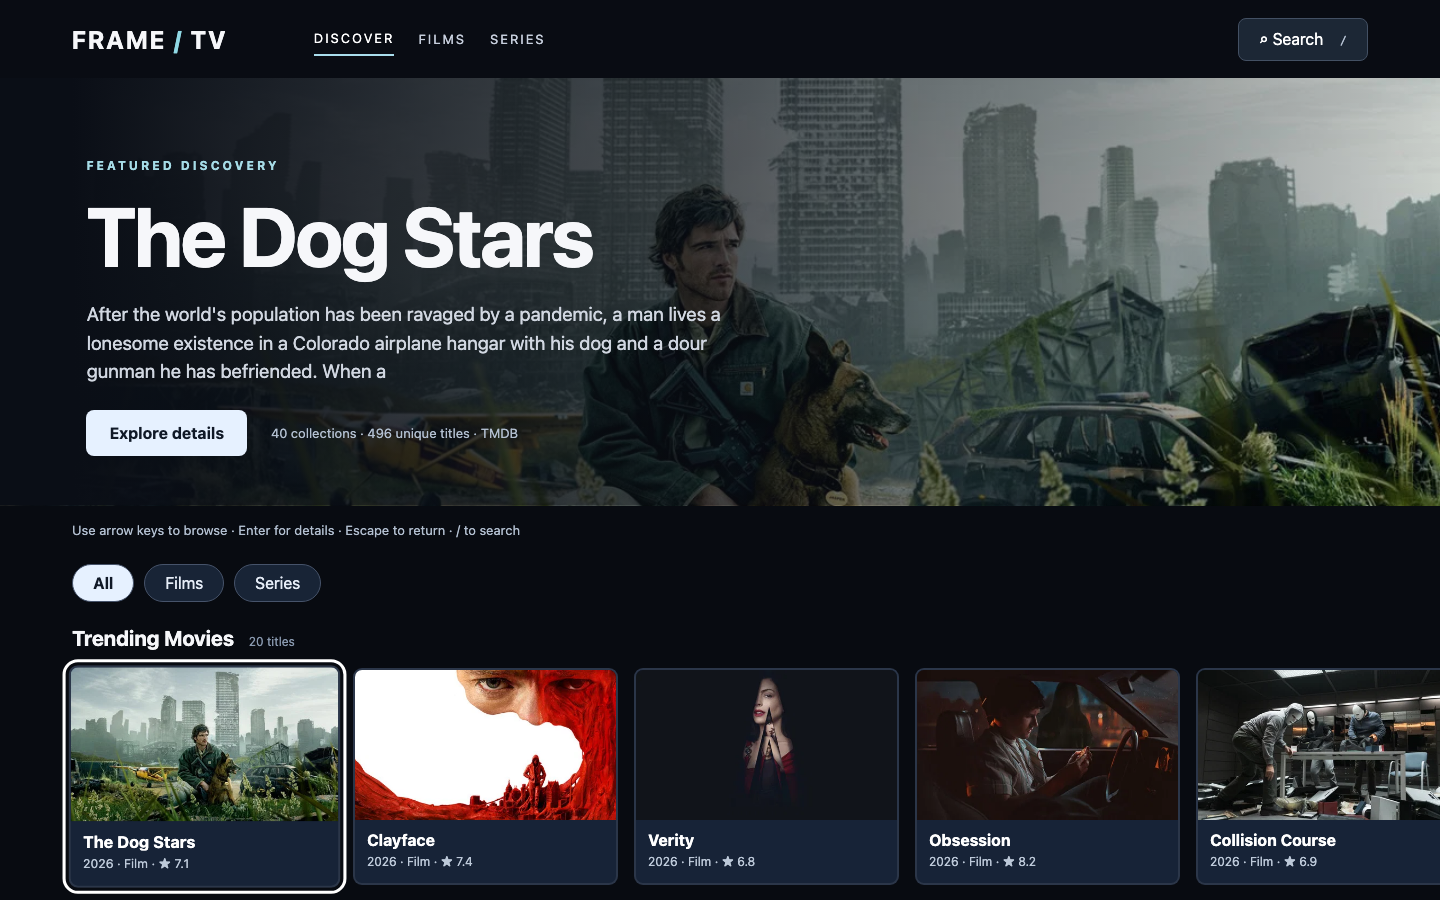
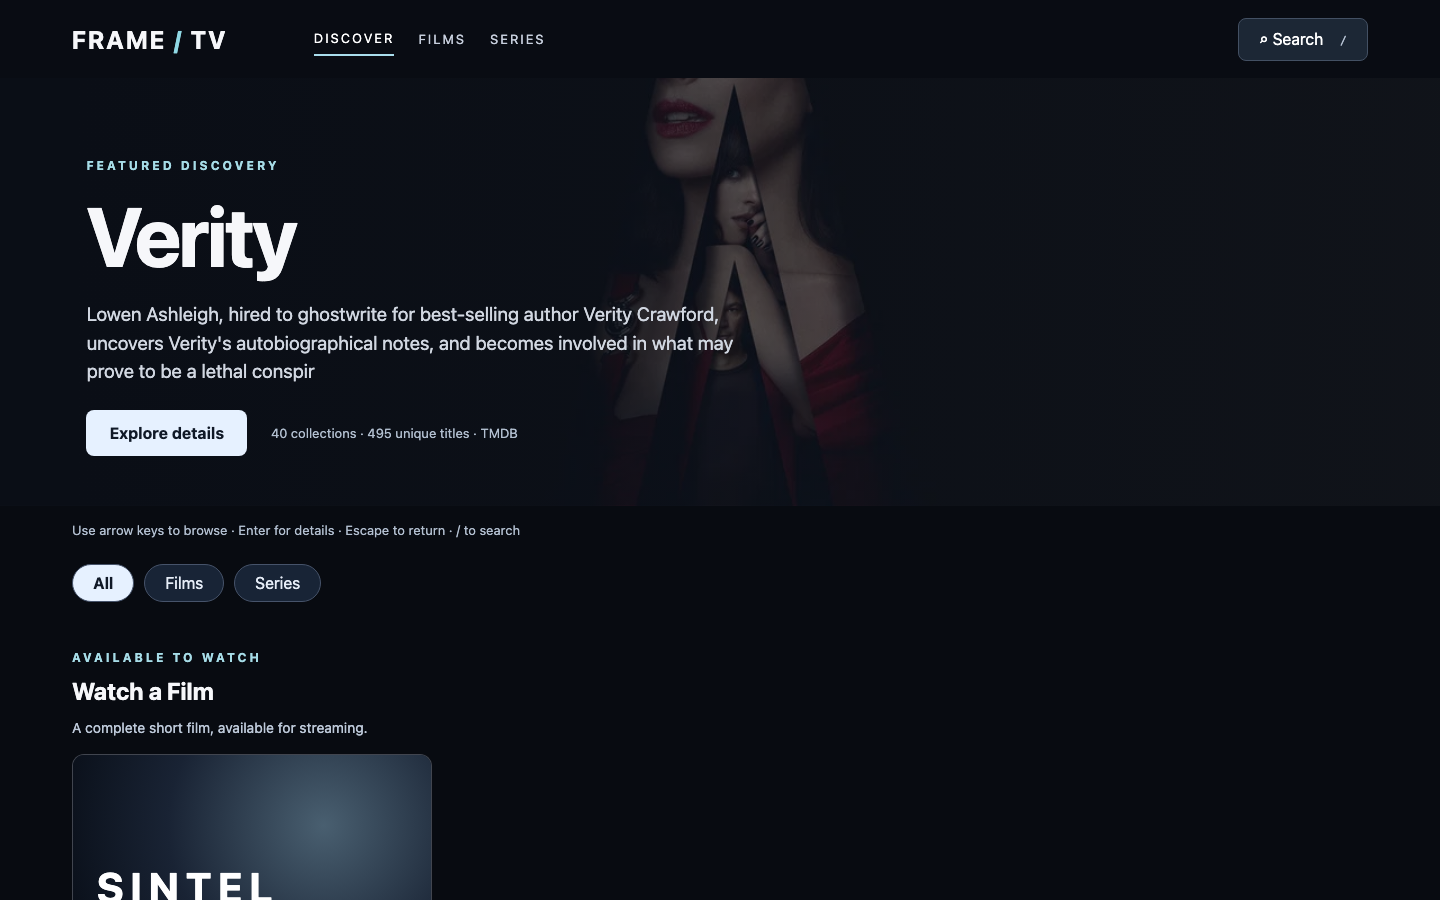
Add updated discovery, browsing and streaming player screenshots

diff --git a/README.md b/README.md
@@ -8,6 +8,18 @@ A TV-first, remote-navigable discovery interface built with **React, TypeScript,
 
 [Watch the interactive demo](docs/media/demo.mp4)
 
+## Browse Movies & Series
+
+Explore movie and series collections through a TV-first, remote-navigable interface.
+
+![FRAME / TV Browse Collections](docs/media/browse-collections.png)
+
+## Streaming Player Preview
+
+Watch *Sintel* with adaptive streaming, English subtitles, fullscreen controls, 10-second seeking, and Continue Watching.
+
+![FRAME / TV Streaming Player](docs/media/fullscreen-player.png)
+
 ## Features
 
 - Forty themed discovery rows populated from TMDB metadata (results vary over time).
